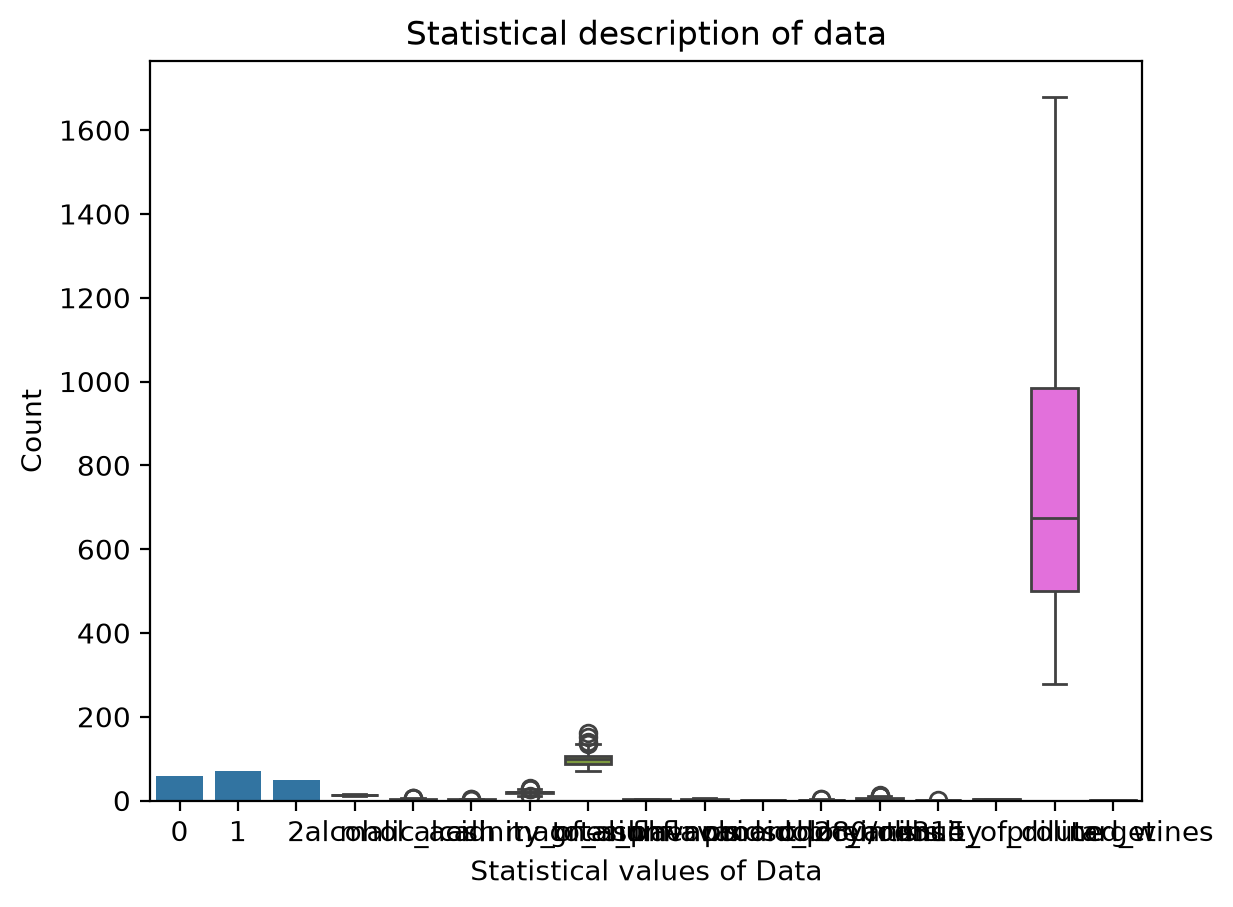
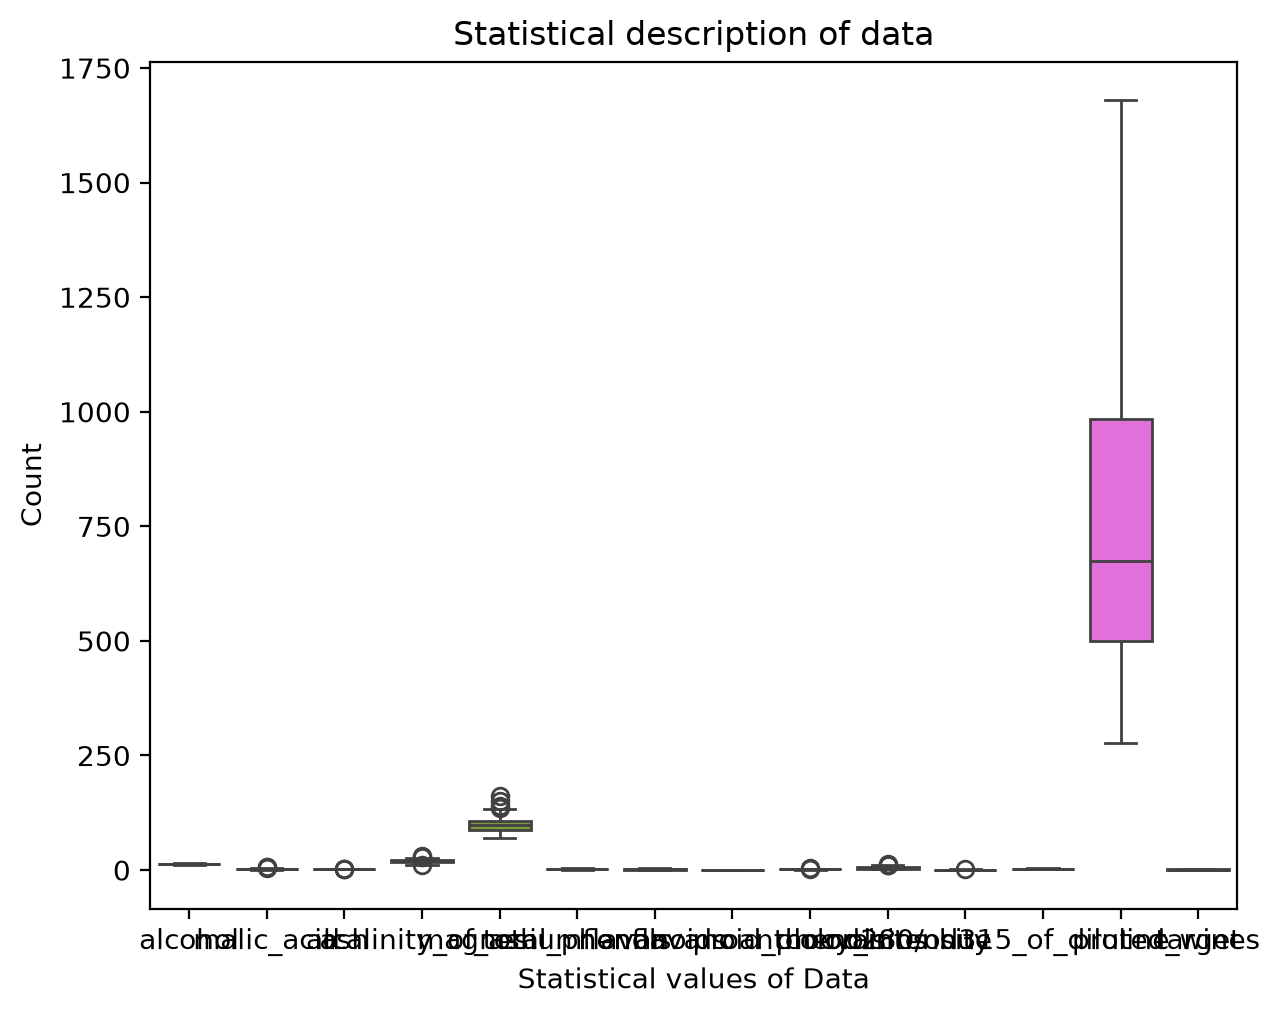
matplotlib plots fixed

diff --git a/src/utils/plot_util.py b/src/utils/plot_util.py
@@ -16,12 +16,14 @@ def generate_plots_eda(
             sns.heatmap(data=data)
         case "pair_plot":
             sns.pairplot(data=data, x=x, y=y)
-        # case _:
-        #     sns.countplot(data=data, x=x)
+        case _:
+            sns.countplot(data=data, x=x)
 
+    # tight layout to see the labels clearly spaced
+    plt.tight_layout()
     format_plots(x_label, y_label, plot_title)
     save_plots(plt, f"./artefacts/{artefact_title.replace(' ', '_')}.png")
-
+    plt.close()
 
 def format_plots(x_label: str, y_label: str, title):
     plt.xlabel(x_label)
